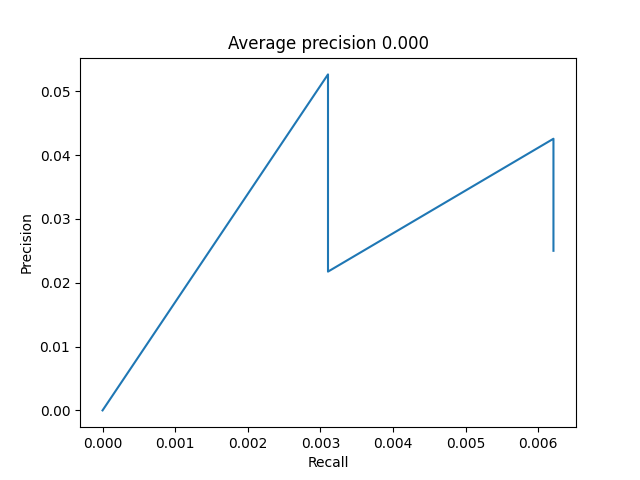
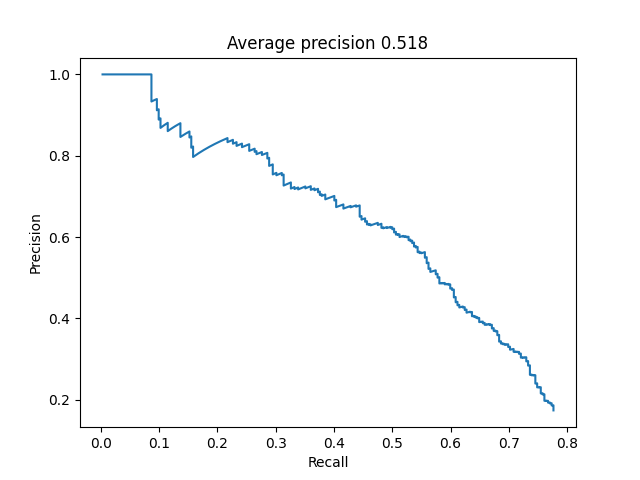
50 AP

diff --git a/cod/task2/FacialDetector.py b/cod/task2/FacialDetector.py
@@ -18,48 +18,6 @@ class FacialDetector:
         self.params = params
         self.best_model = None
 
-    def find_window_size(self):
-        if not os.path.exists(self.params.histograms_dir):
-            os.makedirs(self.params.histograms_dir)
-
-        for character_name in ['barney', 'betty', 'fred', 'wilma', 'unknown']:
-            print(f'Finding window size for {character_name}...')
-            positions = np.empty((0, 4))
-            for name in ['barney', 'betty', 'fred', 'wilma']:
-                annotations_file = os.path.join(self.params.base_dir, name + '_annotations.txt')
-                with open(annotations_file, 'r') as f:
-                    p = np.array([[int(value) for value in line.split()[1:-1]] for line in f if line.split()[-1] == character_name])
-                positions = np.concatenate((positions, p))
-            widths = positions[:,2] - positions[:,0]
-            heights = positions[:,3] - positions[:,1]
-
-            dimension_ratio = widths / heights
-            ratio_frequency = collections.Counter(dimension_ratio)
-            mean_ratio = np.mean(dimension_ratio)
-
-            height_frequency = collections.Counter(heights)
-            mean_height = np.mean(heights)
-
-            plt.bar(height_frequency.keys(), height_frequency.values())
-            plt.xlabel('Inaltimi')
-            plt.ylabel('Frecvență')
-            plt.title('Histograma Frecvenței Inaltimilor')
-            plt.axvline(mean_height, color='red', linestyle='dashed', linewidth=2, label=f'Medie: {mean_height}')
-            plt.legend()
-            plt.savefig(os.path.join(self.params.histograms_dir, character_name + '_histograma_inaltimilor.png'))
-            plt.show()
-            plt.clf()
-
-            plt.bar(ratio_frequency.keys(), ratio_frequency.values())
-            plt.xlabel('Raport lungime / înălțime')
-            plt.ylabel('Frecvență')
-            plt.title(f'Histograma Frecvență Raport lungime / înălțime {character_name}')
-            plt.axvline(mean_ratio, color='red', linestyle='dashed', linewidth=2, label=f'Medie: {mean_ratio:.2f}')
-            plt.legend()
-            plt.savefig(os.path.join(self.params.histograms_dir, character_name + '_histograma_ratio.png'))
-            plt.show()
-            plt.clf()
-
     def generate_positive_images(self):
         for name in ['barney', 'betty', 'fred', 'wilma', 'unknown']:
             faces_directory = os.path.join(self.params.faces_dir, name)
@@ -136,17 +94,14 @@ class FacialDetector:
                     last_image_name = image_name
                 self.find_negative_images(os.path.join(images_path, last_image_name), characters_positions)
 
-    def get_positive_descriptors(self):
+    def get_positive_descriptors(self, name):
         # in aceasta functie calculam descriptorii pozitivi
         # vom returna un numpy array de dimensiuni NXD
         # unde N - numar exemplelor pozitive
         # iar D - dimensiunea descriptorului
         # D = (params.dim_window/params.dim_hog_cell - 1) ^ 2 * params.dim_descriptor_cell (fetele sunt patrate)
-
-        files = []
-        for name in ['barney', 'betty', 'fred', 'wilma', 'unknown']:
-            images_path = os.path.join(self.params.faces_dir, name + '/*.jpg')
-            files += glob.glob(images_path)
+        images_path = os.path.join(self.params.faces_dir, name + '/*.jpg')
+        files = glob.glob(images_path)
         num_images = len(files)
         positive_descriptors = []
         for i in range(num_images):
@@ -158,7 +113,7 @@ class FacialDetector:
                 positive_descriptors.append(features)
 
         positive_descriptors = np.array(positive_descriptors)
-        return positive_descriptors[:4000]
+        return positive_descriptors
 
     def get_negative_descriptors(self):
         # in aceasta functie calculam descriptorii negativi

diff --git a/cod/task2/RunProject.py b/cod/task2/RunProject.py
@@ -3,7 +3,6 @@ from FacialDetector import *
 import pdb
 from Visualize import *
 
-
 params: Parameters = Parameters()
 params.overlap = 0.3
 params.number_positive_examples = 6713  # numarul exemplelor pozitive
@@ -38,28 +37,44 @@ print('Checking for positive descriptors file...')
 if not os.path.exists(params.descriptors_dir):
     os.makedirs(params.descriptors_dir)
 
-positive_features_file_name = os.path.join(params.descriptors_dir, 'positive_cellSize%d_blockSize%d.npy' % (params.dim_hog_cell[0], params.dim_block[0]))
-if os.path.exists(positive_features_file_name):
-    positive_features = np.load(positive_features_file_name)
-    print('Loaded descriptors for positive examples')
-else:
-    print('Descriptors for positive examples not found')
-    print('Generating descriptors for positive examples...')
-    positive_features = facial_detector.get_positive_descriptors()
-    np.save(positive_features_file_name, positive_features)
-    print('Saved descriptors for positive examples in %s file' % positive_features_file_name)
+positive_features = {
+    'barney': np.empty(0),
+    'betty': np.empty(0),
+    'fred': np.empty(0),
+    'wilma': np.empty(0),
+}
 
-print('Checking for negative descriptors file...')
-negative_features_file_name = os.path.join(params.descriptors_dir, 'negative_callSize%d_blockSize%d.npy' % (params.dim_hog_cell[0], params.dim_block[0]))
-if os.path.exists(negative_features_file_name):
-    negative_features = np.load(negative_features_file_name)
-    print('Loaded descriptors for negative examples')
-else:
-    print('Descriptors for negative examples not found')
-    print('Generating descriptors for negative examples...')
-    negative_features = facial_detector.get_negative_descriptors()
-    np.save(negative_features_file_name, negative_features)
-    print('Saved descriptors for negative examples in %s file' % negative_features_file_name)
+negative_features = {
+    'barney': np.empty(0),
+    'betty': np.empty(0),
+    'fred': np.empty(0),
+    'wilma': np.empty(0),
+}
+
+for name in ['barney', 'betty', 'fred', 'wilma']:
+    positive_features_file_name = os.path.join(params.descriptors_dir, '%s_positive_cellSize%d_blockSize%d.npy' % (name, params.dim_hog_cell[0], params.dim_block[0]))
+    if os.path.exists(positive_features_file_name):
+        positive_features[name] = np.load(positive_features_file_name)
+        print('Loaded descriptors for positive examples')
+    else:
+        print('Descriptors for positive examples not found')
+        print('Generating descriptors for positive examples...')
+        positive_features[name] = facial_detector.get_positive_descriptors()
+        np.save(positive_features_file_name, positive_features[name])
+        print('Saved descriptors for positive examples in %s file' % positive_features_file_name)
+
+for name in ['barney', 'betty', 'fred', 'wilma']:
+    print('Checking for negative descriptors file...')
+    negative_features_file_name = os.path.join(params.descriptors_dir, '%s_negative_callSize%d_blockSize%d.npy' % (name, params.dim_hog_cell[0], params.dim_block[0]))
+    if os.path.exists(negative_features_file_name):
+        negative_features[name] = np.load(negative_features_file_name)
+        print('Loaded descriptors for negative examples')
+    else:
+        print('Descriptors for negative examples not found')
+        print('Generating descriptors for negative examples...')
+        negative_features[name] = facial_detector.get_negative_descriptors()
+        np.save(negative_features_file_name, negative_features)
+        print('Saved descriptors for negative examples in %s file' % negative_features_file_name)
 
 if not os.path.exists(params.models_dir):
     os.makedirs(params.models_dir)

diff --git a/cod/task2/Parameters.py b/cod/task2/Parameters.py
@@ -14,7 +14,7 @@ class Parameters:
         self.window_step = 20
         self.face_image_dimension = (50, 50)
         self.dim_window = [96, 150]
-        self.ratio_window = [0.85, 1, 1.15]
+        self.ratio_window = [1, 1.2]
         self.dim_hog_cell = (6, 6)
         self.dim_block = (4, 4)
         self.overlap = 0.3
